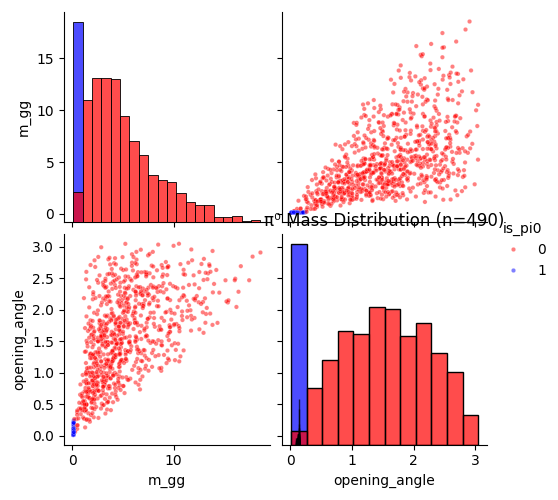
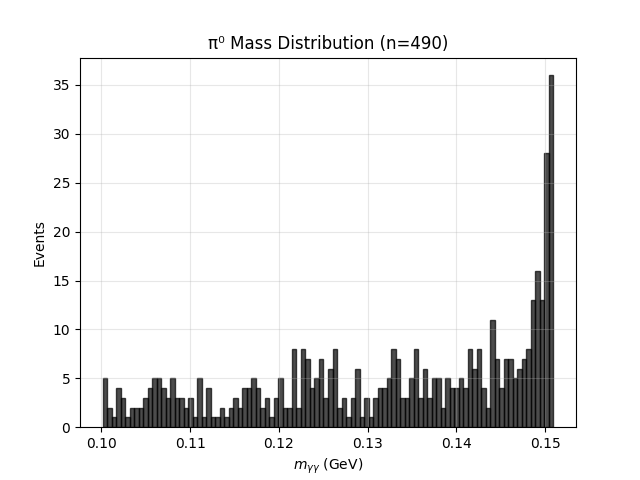
all changes

diff --git a/main.py b/main.py
@@ -67,10 +67,10 @@ if __name__ == "__main__":
     print(f"photon features: {columns_df}")
     #print(f"photon 4-mom (E, px, py, pz): ({df[]})")
 
-    # plot 3 photon 4-momentum
+    ## Plot 3 photon 4-momentum
     plot_hist(df, columns_df, 3, 100, "photon_features") # data, column list, number of rows to plot, number of bins
 
-    # Prepare pair dataset with EXACT 4-vector quantities
+    ## Prepare pair dataset with EXACT 4-vector quantities
     print("\n0. Creating photon pairs with EXACT invariant masses ...")
     pair_df = prepare_3photon_paris(df)
     columns_pair_df = [col for col in pair_df.columns if col != 'pair_id']
@@ -79,7 +79,19 @@ if __name__ == "__main__":
     #print(f"    {pair_df.is_pi0.sum()} true pi0 pairs")
     print(f"    Cloumns: {columns_pair_df}")
     
-    # plot photon pair features
+    ## Check signal pi0 mass
+    signal_pi0_mass = pair_df[(pair_df['is_pi0'] == 1) & (pair_df['m_gg'] > 0.1)]['m_gg'].tolist()
+    #print(signal_pi0_mass)
+    plt.hist(signal_pi0_mass, color='Black', bins=100, density=False, edgecolor='black', alpha=0.7)
+    plt.xlabel(r'$m_{\gamma\gamma}$ (GeV)')
+    plt.ylabel('Events')
+    plt.title(f'π⁰ Mass Distribution (n={len(signal_pi0_mass)})')
+    plt.grid(True, alpha=0.3)
+    plt.savefig('./plots/signal_pi0.png')
+    plt.show(block=False)
+    plt.close()
+
+    ## Plot photon pair features
     plot_hist(pair_df, columns_pair_df, 2, 100, "pair_features")
 
     print("\n1. Inspect features ...")
@@ -92,12 +104,11 @@ if __name__ == "__main__":
     #print(f"Statistics:\n{df.describe()}")
     #print("data:", df.shape())
 
-    # Paire plot (Scatter Matrix) correlations
+    ## Pair plot (Scatter Matrix) correlations
     sample_size = min (1000, len(pair_df))
     sample_df = pair_df.sample(sample_size)
     print(sample_df.head(5))
 
-    # Create pair plot
     #('m_gg', 'opening_angle'),      # Should be correlated (higher mass = larger opening angle)
     #('m_gg', 'pt_asym'),             # Check if mass correlates with asymmetry
     #('opening_angle', 'pt_asym'),    # Opening angle vs energy asymmetry
@@ -114,21 +125,79 @@ if __name__ == "__main__":
     g.figure.suptitle('Feature Pair Plot (Signal=Blue, Background=Red)', y=1.02, fontsize=14)
     plt.tight_layout()
     plt.savefig('./plots/feature_pairplot.png', dpi=300, bbox_inches='tight')
-    plt.show()
-
-    # Check signal pi0 mass
-
-    signal_pi0_mass = pair_df[(pair_df['is_pi0'] == 1) & (pair_df['m_gg'] > 0.1)]['m_gg'].tolist()
-    #print(signal_pi0_mass)
-    plt.hist(signal_pi0_mass, color='Black', bins=100, density=False, edgecolor='black', alpha=0.7)
-    plt.xlabel(r'$m_{\gamma\gamma}$ (GeV)')
-    plt.ylabel('Events')
-    plt.title(f'π⁰ Mass Distribution (n={len(signal_pi0_mass)})')
-    plt.grid(True, alpha=0.3)
-    plt.savefig('./plots/signal_pi0.png')
     plt.show(block=False)
     plt.close()
-        
+
+    ## Feature-feature correlations
+    print("Feature-feature correlations:")
+    corr_matrix = pair_df[feature_columns].corr()
+
+    # find highly correlated feature pairs
+    high_corr = []
+    for i in range(len(feature_columns)):
+        for j in range(i+1, len(feature_columns)):
+            #print(f"{i}, {j}")
+            corr = corr_matrix.iloc[i, j]
+            if abs(corr) > 0.7:
+                high_corr.append((feature_columns[i], feature_columns[j], corr))
+    
+    print(type(high_corr[0]), type(high_corr))
+
+    if high_corr:
+        print("    Highly correlated pairs (>0.7):")
+        for f1, f2, corr in high_corr:
+            print(f"    {f1} & {f2}: {corr:+.3f}")
+    else:
+        print("    No highly correlated feature pairs (>0.7)")
+
+    ## Correlations with target
+    target = 'is_pi0' # This is what we are trying to predict - whether a photon pair comes from a real pi0 decay or is ust random background
+    # is_pi0 = 1: Signal events (the photon pair is a real pi0 decay)
+    # is_pi0 = 0: Background event (random photon combination)
+
+    # Expected correlation for good pi0 data
+    # m_gg              strong positive (+0.8+)     pi0 events peak at 0.135 GeV
+    # opening_angle     strong negaitive (-0.7+)    pi0 have small opening angles
+    # cos_theta         strong positive (+0.7+)     small angle -> costheta close to 1
+    # pt_asym           strong negative (-0.6+)     pi0 decays are symmetric
+    # E1, E2            moderate                    individual energies less discriminating
+     
+    target_corr = pair_df[feature_columns + [target]].corr()[target].drop(target).sort_values(ascending=False)
+    # pair_df[feature_columns + [target]]: select columns
+    # .corr(): calculate correlation matrix
+    # [target]: extract target column
+    # .drop(target): remove self-correlation
+    # .sort_values(ascending=False): sort by strength; False: highest to lowest correlation
+
+    print(f"target_corr type: {type(target_corr), {target_corr.shape}}")
+    #print(target_corr)
+
+   
+    for feat, corr in target_corr.items():
+        strength = "strong" if abs(corr) > 0.5 else "moderate" if abs(corr) > 0.3 else "weak"
+        print(f"    {feat:15s}: {corr:+.3f} ({strength})")
+
+    ## Visualize feature correlation with pi0 signal
+    plt.figure(figsize=(10, 6))
+    colors = ['green' if c > 0  else 'red' for c in target_corr.values]
+    plt.bar(range(len(target_corr)), target_corr.values, color=colors, alpha=0.7)
+    plt.axhline(y=0, color='black', linestyle='-', linewidth=0.5)
+    plt.xticks(range(len(target_corr)), target_corr.index, rotation=45, ha='right')
+    plt.ylabel('Correlation with is_pi0')
+    plt.title('Feature Importance: Correlation with pi0 Signal')
+    plt.grid(True, alpha=0.3, axis='y')
+
+    # Add value labels
+    for i, (feat, corr) in enumerate(target_corr.items()):
+        #print (i, feat, corr)
+        plt.text(i, corr + (0.02 if corr > 0 else -0.05),
+                 f'{corr:.2f}', ha='center', va='bottom' if corr > 0 else 'top')
+    
+    plt.tight_layout()
+    plt.savefig('./plots/feature_target_correlation.png', dpi=300, bbox_inches='tight')
+    plt.show(block=False)
+    plt.close()
+
     # Train classifier
     print("\n2. Training XGBoost on EXACT 4-vector features ...")
     model = train_pi0_classifier_4vector(pair_df)

diff --git a/methods.py b/methods.py
@@ -6,6 +6,10 @@ from sklearn.metrics import roc_auc_score, roc_curve
 from sklearn.model_selection import train_test_split
 
 # =================================================================
+#
+# =================================================================
+     
+# =================================================================
 # Testing data, simplified pi0 -> gamma gamma MC generator
 # =================================================================
 def MC_generation():
